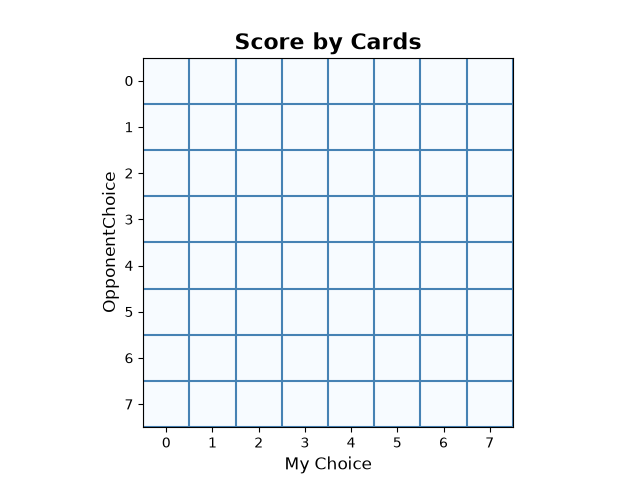
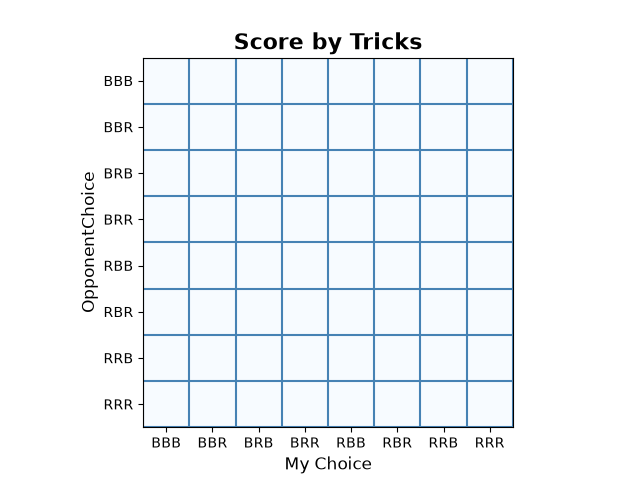
Update viz, save results as npz

diff --git a/src/datavis.py b/src/datavis.py
@@ -15,8 +15,13 @@ n_rows, n_cols = data.shape
 #will add stuff about labels + title 
 
 #sets grid lines and ticks 
+x_tick_labels = ['BBB', 'BBR', 'BRB', 'BRR', 'RBB', 'RBR', 'RRB', 'RRR']
+y_tick_labels = ['BBB', 'BBR', 'BRB', 'BRR', 'RBB', 'RBR', 'RRB', 'RRR']
+
 ax.set_xticks(np.arange(-0.5, n_cols, 1), minor=True)
 ax.set_yticks(np.arange(-0.5, n_rows, 1), minor=True)
+ax.set_xticks(range(len(x_tick_labels)), labels=x_tick_labels)
+ax.set_yticks(range(len(y_tick_labels)), labels=y_tick_labels)
 
 ax.grid(which='minor', color='steelblue', linestyle='-', linewidth=1.5)
 ax.tick_params(which='minor', bottom=False, left=False)
@@ -35,6 +40,40 @@ plt.savefig(output_dir/"cards_viz.png")
 
 
 #another by tricks 
+
+#data (will fill in)
+data = np.zeros((8,8)) #empty data 
+
+#heatmap 
+fig, ax = plt.subplots() 
+ax.imshow(data, cmap = "Blues")
+n_rows, n_cols = data.shape
+
+#will add stuff about labels + title 
+
+#sets grid lines and ticks 
+x_tick_labels = ['BBB', 'BBR', 'BRB', 'BRR', 'RBB', 'RBR', 'RRB', 'RRR']
+y_tick_labels = ['BBB', 'BBR', 'BRB', 'BRR', 'RBB', 'RBR', 'RRB', 'RRR']
+
+ax.set_xticks(np.arange(-0.5, n_cols, 1), minor=True)
+ax.set_yticks(np.arange(-0.5, n_rows, 1), minor=True)
+ax.set_xticks(range(len(x_tick_labels)), labels=x_tick_labels)
+ax.set_yticks(range(len(y_tick_labels)), labels=y_tick_labels)
+
+ax.grid(which='minor', color='steelblue', linestyle='-', linewidth=1.5)
+ax.tick_params(which='minor', bottom=False, left=False)
+ax.set_xticks(np.arange(n_cols))
+ax.set_yticks(np.arange(n_rows))
+
+ax.set_title("Score by Tricks", fontsize=16, fontweight='bold')
+
+ax.set_xlabel("My Choice", fontsize=12)
+ax.set_ylabel("OpponentChoice", fontsize=12)
+
+#save to figure folder 
+output_dir = Path('./figures')
+output_dir.mkdir(parents=True, exist_ok=True)
+plt.savefig(output_dir/"tricks_viz.png")
 
 
 

diff --git a/src/dataproc.py b/src/dataproc.py
@@ -1,6 +1,7 @@
 
 import numpy as np
 import pandas as pd
+from pathlib import Path
 
 def game_to_string(packed_game):
     '''
@@ -116,6 +117,13 @@ def get_results_for_new_games(game_history):
         new_scores.append(game_results) #append game info to list containing info on all games in game_history
     merged_scores = [results for game in new_scores for results in game] #fix shape to turn into dataframe (got help from ChatGPT)
     new_scores_df = pd.DataFrame(merged_scores, columns = ['game_str','pattern1','pattern2','tricks1', 'tricks2', 'cards1', 'cards2', 'winner_tricks','winner_cards'],) #turn into dataframe (may change data storage type later)
+
+    #similar to datagen.py for saving to /data
+    output_dir = Path('./data')
+    output_dir.mkdir(parents=True, exist_ok=True)
+    arr = new_scores_df.to_records(index=False) #converts df to numpy array 
+    np.savez_compressed(output_dir / "game_results_array.npz", data=arr)
+
     return new_scores_df
 
 def calc_probs(df, pattern1, pattern2):

diff --git a/main.py b/main.py
@@ -1,6 +1,17 @@
-def main():
-    print("Hello from pennys-project-data440!")
+import sys
+from pathlib import Path
 
+
+#help from claude to create this 
+sys.path.append(str(Path(__file__).parent / "src")) #include since main.py exists outside of src folder 
+
+from datagen import generate_data
+from dataproc import get_results_for_new_games
+
+def main():
+    game_history = generate_data(seed=42, trials=10) #generate data
+    results_df = get_results_for_new_games(game_history) #get results
+    print(results_df.head())
 
 if __name__ == "__main__":
     main()

diff --git a/src/datagen.py b/src/datagen.py
@@ -5,8 +5,8 @@ import time
 
 
 
-#this will go into datagen.py
-#still need to figue out how to store the data in data folder
+# this will go into datagen.py
+# still need to figue out how to store the data in data folder
 def generate_data(seed,trials):
     ''' 
     Generates decks of shuffled cards according to specified number of trials and seed
@@ -25,5 +25,5 @@ def generate_data(seed,trials):
     return game_history 
 
 
-if __name__ == "__main__":
-    generate_data(seed=42, trials=10)
+# if __name__ == "__main__":
+#     generate_data(seed=42, trials=10)
